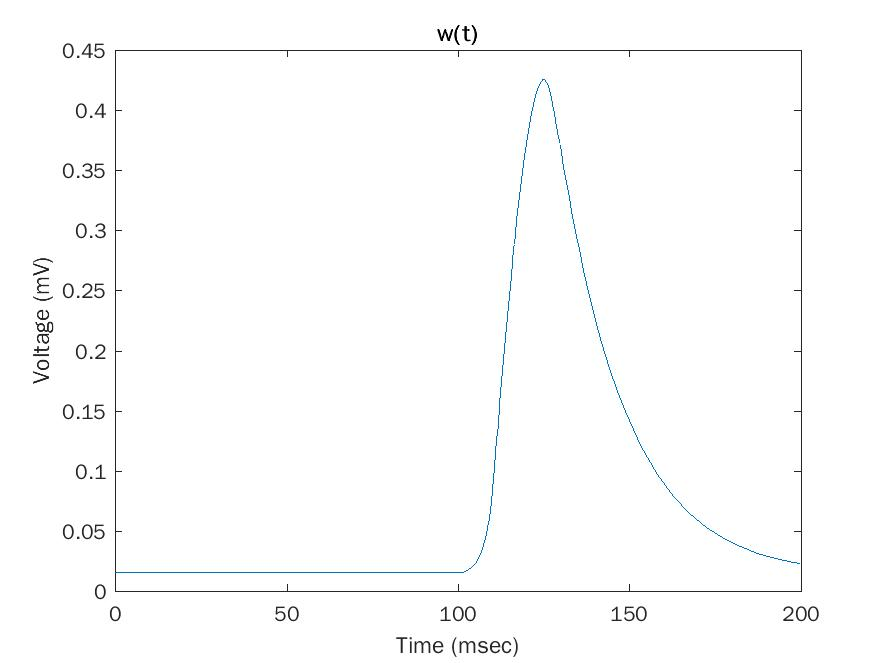
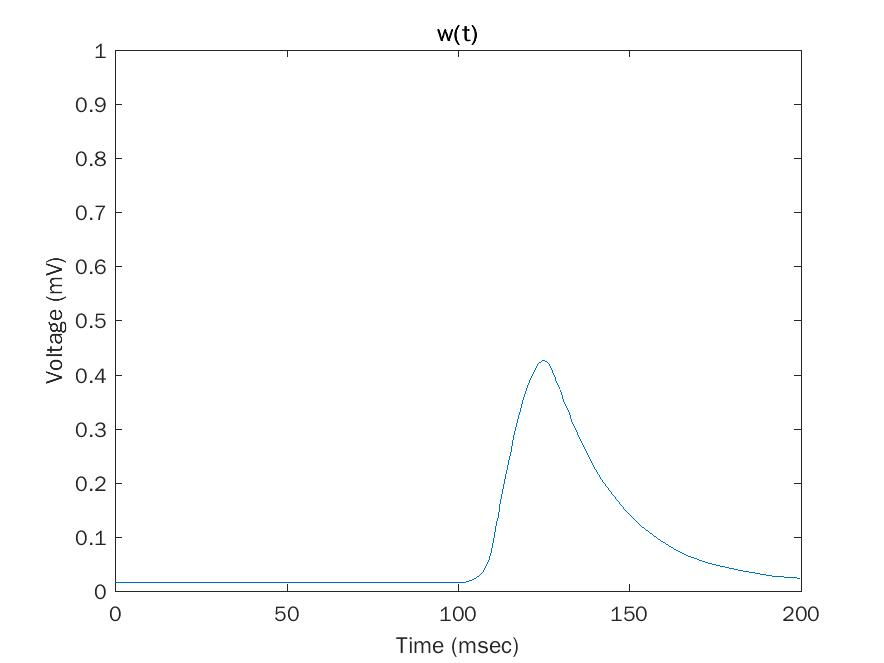
update figures

diff --git a/hw6/src/Morris_Lecar.m b/hw6/src/Morris_Lecar.m
@@ -91,6 +91,7 @@ plot(t1, S1(:,2));
 xlabel('Time (msec)');
 ylabel('Voltage (mV)');
 title('w(t)');
+axis([0 200 0 1]);
 saveas(fig,'../img/2.b.w.jpg');
 
 flag = 2;

diff --git a/hw6/src/main.m b/hw6/src/main.m
@@ -1,3 +1,4 @@
 function main
     lac_operon
+    Morris_Lecar
 end
